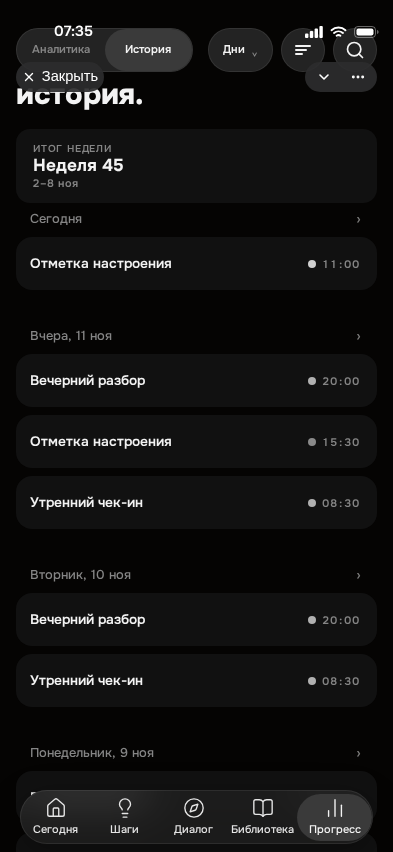
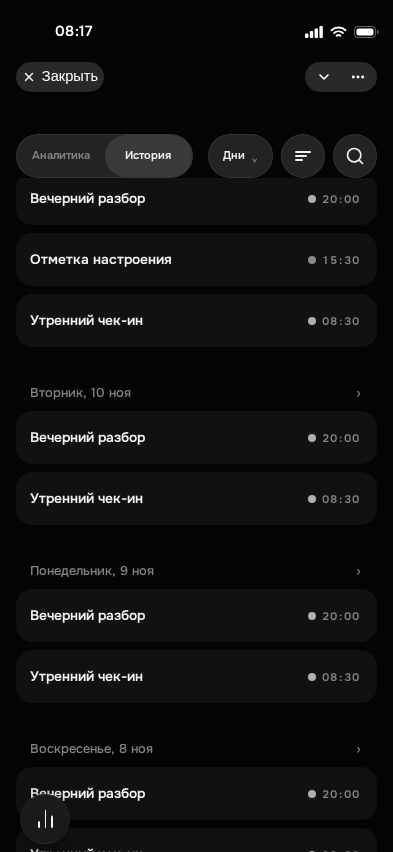
fix(progress): строка кнопок ниже полосы Telegram в эмуляции fullscreen

diff --git a/src/App.jsx b/src/App.jsx
@@ -1198,11 +1198,22 @@ function App() {
       ? 'var(--app-safe-bottom)'
       : 'var(--app-content-bottom)'
 
+  // Шапка демо-эмуляции Telegram (пилюли «Закрыть/⋯») — тот же слой, что в
+  // Telegram fullscreen: приложение оставляет под ней safe-top (статус-бар)
+  // плюс 56 px контролов. Без рамки (?frame=0) шапка рисовалась, а инсеты
+  // задавала только рамка, и строка кнопок «Прогресса» уходила под пилюли.
+  const demoChromeShown = shouldRenderDemoTelegramChrome({
+    previewDemoMode,
+    platformName,
+    realPhone,
+    deviceFrameMode,
+  })
+
   // Полноэкранные листы Истории остаются внутри shell, но не закрывают шапку Telegram.
   // В demo-рамке с эмуляцией Telegram все экраны получают отступы как в
   // Telegram fullscreen: верх = safe-top (статус-бар iOS) + 56 (пилюли Telegram).
   const shellTopPadding =
-    previewDemoMode && !realPhone && deviceFrameMode
+    previewDemoMode && demoChromeShown
       ? 'calc(var(--app-safe-top) + 56px)'
       : topSafeArea
 
@@ -1290,12 +1301,7 @@ function App() {
           paddingLeft: 'var(--app-safe-left)',
         }}
       >
-        {shouldRenderDemoTelegramChrome({
-          previewDemoMode,
-          platformName,
-          realPhone,
-          deviceFrameMode,
-        }) && <DemoTelegramChrome />}
+        {demoChromeShown && <DemoTelegramChrome />}
 
         {/* ========================================================
           MENTALIX WORDMARK

diff --git a/src/index.css b/src/index.css
@@ -1704,6 +1704,16 @@ html.mx-is-scrolling *::after {
   --demo-statusbar-h: 59px;
 }
 
+/* Демо-эмуляция Telegram без рамки (?frame=0): шапка с пилюлями
+   «Закрыть/⋯» нарисована (DemoTelegramChrome), а верхние инсеты раньше
+   задавала только рамка — контент и липкая строка «Прогресса» уходили под
+   статус-бар и пилюли. Повторяем инсеты рамки: статус-бар + 56 px контролов
+   (padding-top shell задаёт App.jsx, как в Telegram fullscreen). */
+.mx-app-shell:not([data-mentalix-demo-frame='true']):has(> .mx-demo-telegram-chrome) {
+  --app-safe-top: 62px;
+  --demo-statusbar-h: 62px;
+}
+
 /* Чисто визуальный слой поверх всех экранов, включая
    fullscreen-порталы (z-60): pointer-events: none, z выше всего. */
 .mx-demo-telegram-chrome {

diff --git a/qa-evidence/progress-actions-row/README.md b/qa-evidence/progress-actions-row/README.md
@@ -1,35 +1,48 @@
 # Переключатель «Аналитика | История» в строке кнопок вкладки
 
 Кадры приёмки задачи «Issue #N — Прогресс: переключатель в строке кнопок»
-(ветка `move-progress-segment`, PR #1197 в `main`, без merge).
+(ветка `move-progress-segment`, PR #1197 в `main`). Второй круг — ветка
+`fix-progress-overlap`: правка перекрытия строки кнопок полосой Telegram,
+PR заменяет #1197.
 
-Съёмка: Chromium, demo-режим `?demo=1&frame=0&tab=trends`, демо-бейдж и
-переключатель вьюпорта скрыты (превью-артефакты, см. комментарии в
+Съёмка: Chromium, эмуляция Telegram fullscreen без рамки
+`?demo=1&frame=0&tab=trends` — рисуется демо-шапка Telegram (статус-бар,
+пилюли «✕ Закрыть» и «⌄ •••»); демо-бейдж и переключатель вьюпорта скрыты
+(превью-артефакты, см. комментарии в
 `tests/ux/progress-segment-visibility.spec.mjs`).
 
-| Кадр                    | Что показывает                                                          |
-| ----------------------- | ----------------------------------------------------------------------- |
-| `393x852-analytics.png` | Слева сегмент «Аналитика \| История», справа пилюля «Недели ⌄»          |
-| `393x852-history.png`   | Слева тот же сегмент, справа группировка «Дни ⌄», фильтры и поиск       |
-| `360x640-analytics.png` | 360×640: сегмент и «Недели ⌄» в одной строке, края совпадают с карточкой |
-| `360x640-history.png`   | 360×640: сегмент и три кнопки «Истории» внутри полей, без обрезки текста |
+| Кадр                    | Что на нём                                                                                                           |
+| ----------------------- | -------------------------------------------------------------------------------------------------------------------- |
+| `360x640-analytics.png` | Сверху статус-бар и строка Telegram «✕ Закрыть / ⌄ •••»; ниже — строка кнопок: сегмент «Аналитика \| История» и пилюля «Недели ⌄», затем заголовок «аналитика.» и карточка «Как ты сейчас?». |
+| `360x640-history.png`   | «История» после прокрутки ленты на 300 px: пилюли Telegram сверху, сразу под ними липкая строка (сегмент, «Дни ⌄», фильтр, поиск); лента не просвечивает и под шапку не уезжает. |
+| `393x852-analytics.png` | То же на 393×852 без прокрутки: сегмент и «Недели ⌄» в одной строке, края совпадают с карточкой.                       |
+| `393x852-history.png`   | «История» после прокрутки 300 px на 393×852: сегмент и три кнопки «Истории» внутри полей, без обрезки текста.          |
 
 Автопроверка — `npx playwright test --config=playwright.progress-segment.config.mjs`
 (Chromium, demo): пять переключений вкладок подряд, `elementFromPoint` в центре
-пилюли, а на 360×640 и 393×852 — числовые критерии строки: левый край сегмента
-и правый край последней кнопки внутри полей и на одной вертикали с карточками
-(допуск 1 px), зона нажатия каждого контрола ≥ 44×44, высоты сегмента, пилюли и
-круглых кнопок из одного токена, одинаковый зазор до заголовка на обеих
-вкладках.
+пилюли, на 360×640 и 393×852 — числовые критерии строки (края внутри полей и на
+одной вертикали с карточками, допуск 1 px; зона нажатия ≥ 44×44; высоты из
+одного токена; одинаковый зазор до заголовка), а также эмуляция Telegram
+fullscreen: верх строки кнопок ≥ «статус-бар + 56 px», ни строка, ни заголовок не
+пересекаются с пилюлями Telegram, `elementFromPoint` в центре «Аналитики» и
+«Истории» — сами кнопки, при прокрутке 0 и 300 px.
 
-Правка после ревью (кадры пересняты): на 360×640 во вкладке «История» кнопка
-поиска выходила за правое поле (354 px при поле 344 px) — причина в
+Правка после первого ревью (кадры пересняты): на 360×640 во вкладке «История»
+кнопка поиска выходила за правое поле (354 px при поле 344 px) — причина в
 `padding-right: 3px` строки и в том, что `.mx-progress-actions-row__actions`
 сжимался, а кнопки вылезали из него. Теперь правого отступа нет, кнопки не
 сжимаются (`flex: none`), сжимается только сегмент до `max-content`; зазор до
-заголовка одинаковый (8 px) на обеих вкладках. Замеры после правки: 360×640 —
-сегмент 16…179, поиск заканчивается на 344 (= правый край карточки); 393×852 —
-сегмент 16…193, последняя кнопка 377.
+заголовка одинаковый (8 px) на обеих вкладках.
+
+Правка после второго ревью (кадры пересняты): в этой же эмуляции без рамки
+демо-шапка Telegram рисовалась, а верхние инсеты задавала только рамка, поэтому
+после согласования fullscreen-режима shell получал `padding-top: 0`: строка
+кнопок вставала на y = 20, липкая строка прилипала к y = 0, а пилюли
+«Закрыть/⋯» (y = 62…92) накрывали заголовок «история.» (y = 80…109). Замеры
+после правки на 360×640 и 393×852: верх прокрутки 118 px (статус-бар 62 +
+56 контролов), строка кнопок 138…190, заголовок 198…227, пилюли 62…92 —
+пересечений нет; при прокрутке 300 px липкая строка стоит на 118 px, сразу под
+полосой Telegram. В демо-рамке (393×852) геометрия не изменилась: 115/145/213.
 
 Ручной gate остаётся за iPhone/Telegram: проверить, что пилюля не «исчезает»
-после переключений и при прокрутке ленты «Истории».
+после переключений и при прокрутке ленты «Истории» (в отчёте — NOT RUN).

diff --git a/docs/engineering/notes/progress.md b/docs/engineering/notes/progress.md
@@ -36,6 +36,14 @@
 - Зазор от строки до заголовка — `--mx-space-2` (8 px) на обеих вкладках
   (`.mx-progress-analytics` и `.mx-progress-history`); раньше у «Истории» было
   4 px, и заголовок «история.» стоял вплотную к кнопкам.
+- Верх строки кнопок = верх прокручиваемой области. В демо-эмуляции Telegram
+  без рамки (`?frame=0`) шапка с пилюлями рисуется, поэтому shell получает те
+  же инсеты, что в рамке: `--app-safe-top: 62px` (правило
+  `.mx-app-shell:has(> .mx-demo-telegram-chrome)` в `src/index.css`) и
+  `padding-top: safe-top + 56` в `App.jsx` (предикат `demoChromeShown`).
+  Без этого после согласования fullscreen-режима строка вставала на y = 20,
+  прилипала к y = 0 и пилюли «Закрыть/⋯» накрывали заголовок. Вне Telegram
+  (шапки нет) поведение прежнее: строка прилипает к верху экрана.
 - Проверка: `npx playwright test --config=playwright.progress-segment.config.mjs`
   (Chromium, demo). Тест переключает вкладки 5 раз и проверяет краску пилюли
   (`elementFromPoint` в центре), а на 360×640 и 393×852 — числовые критерии:
